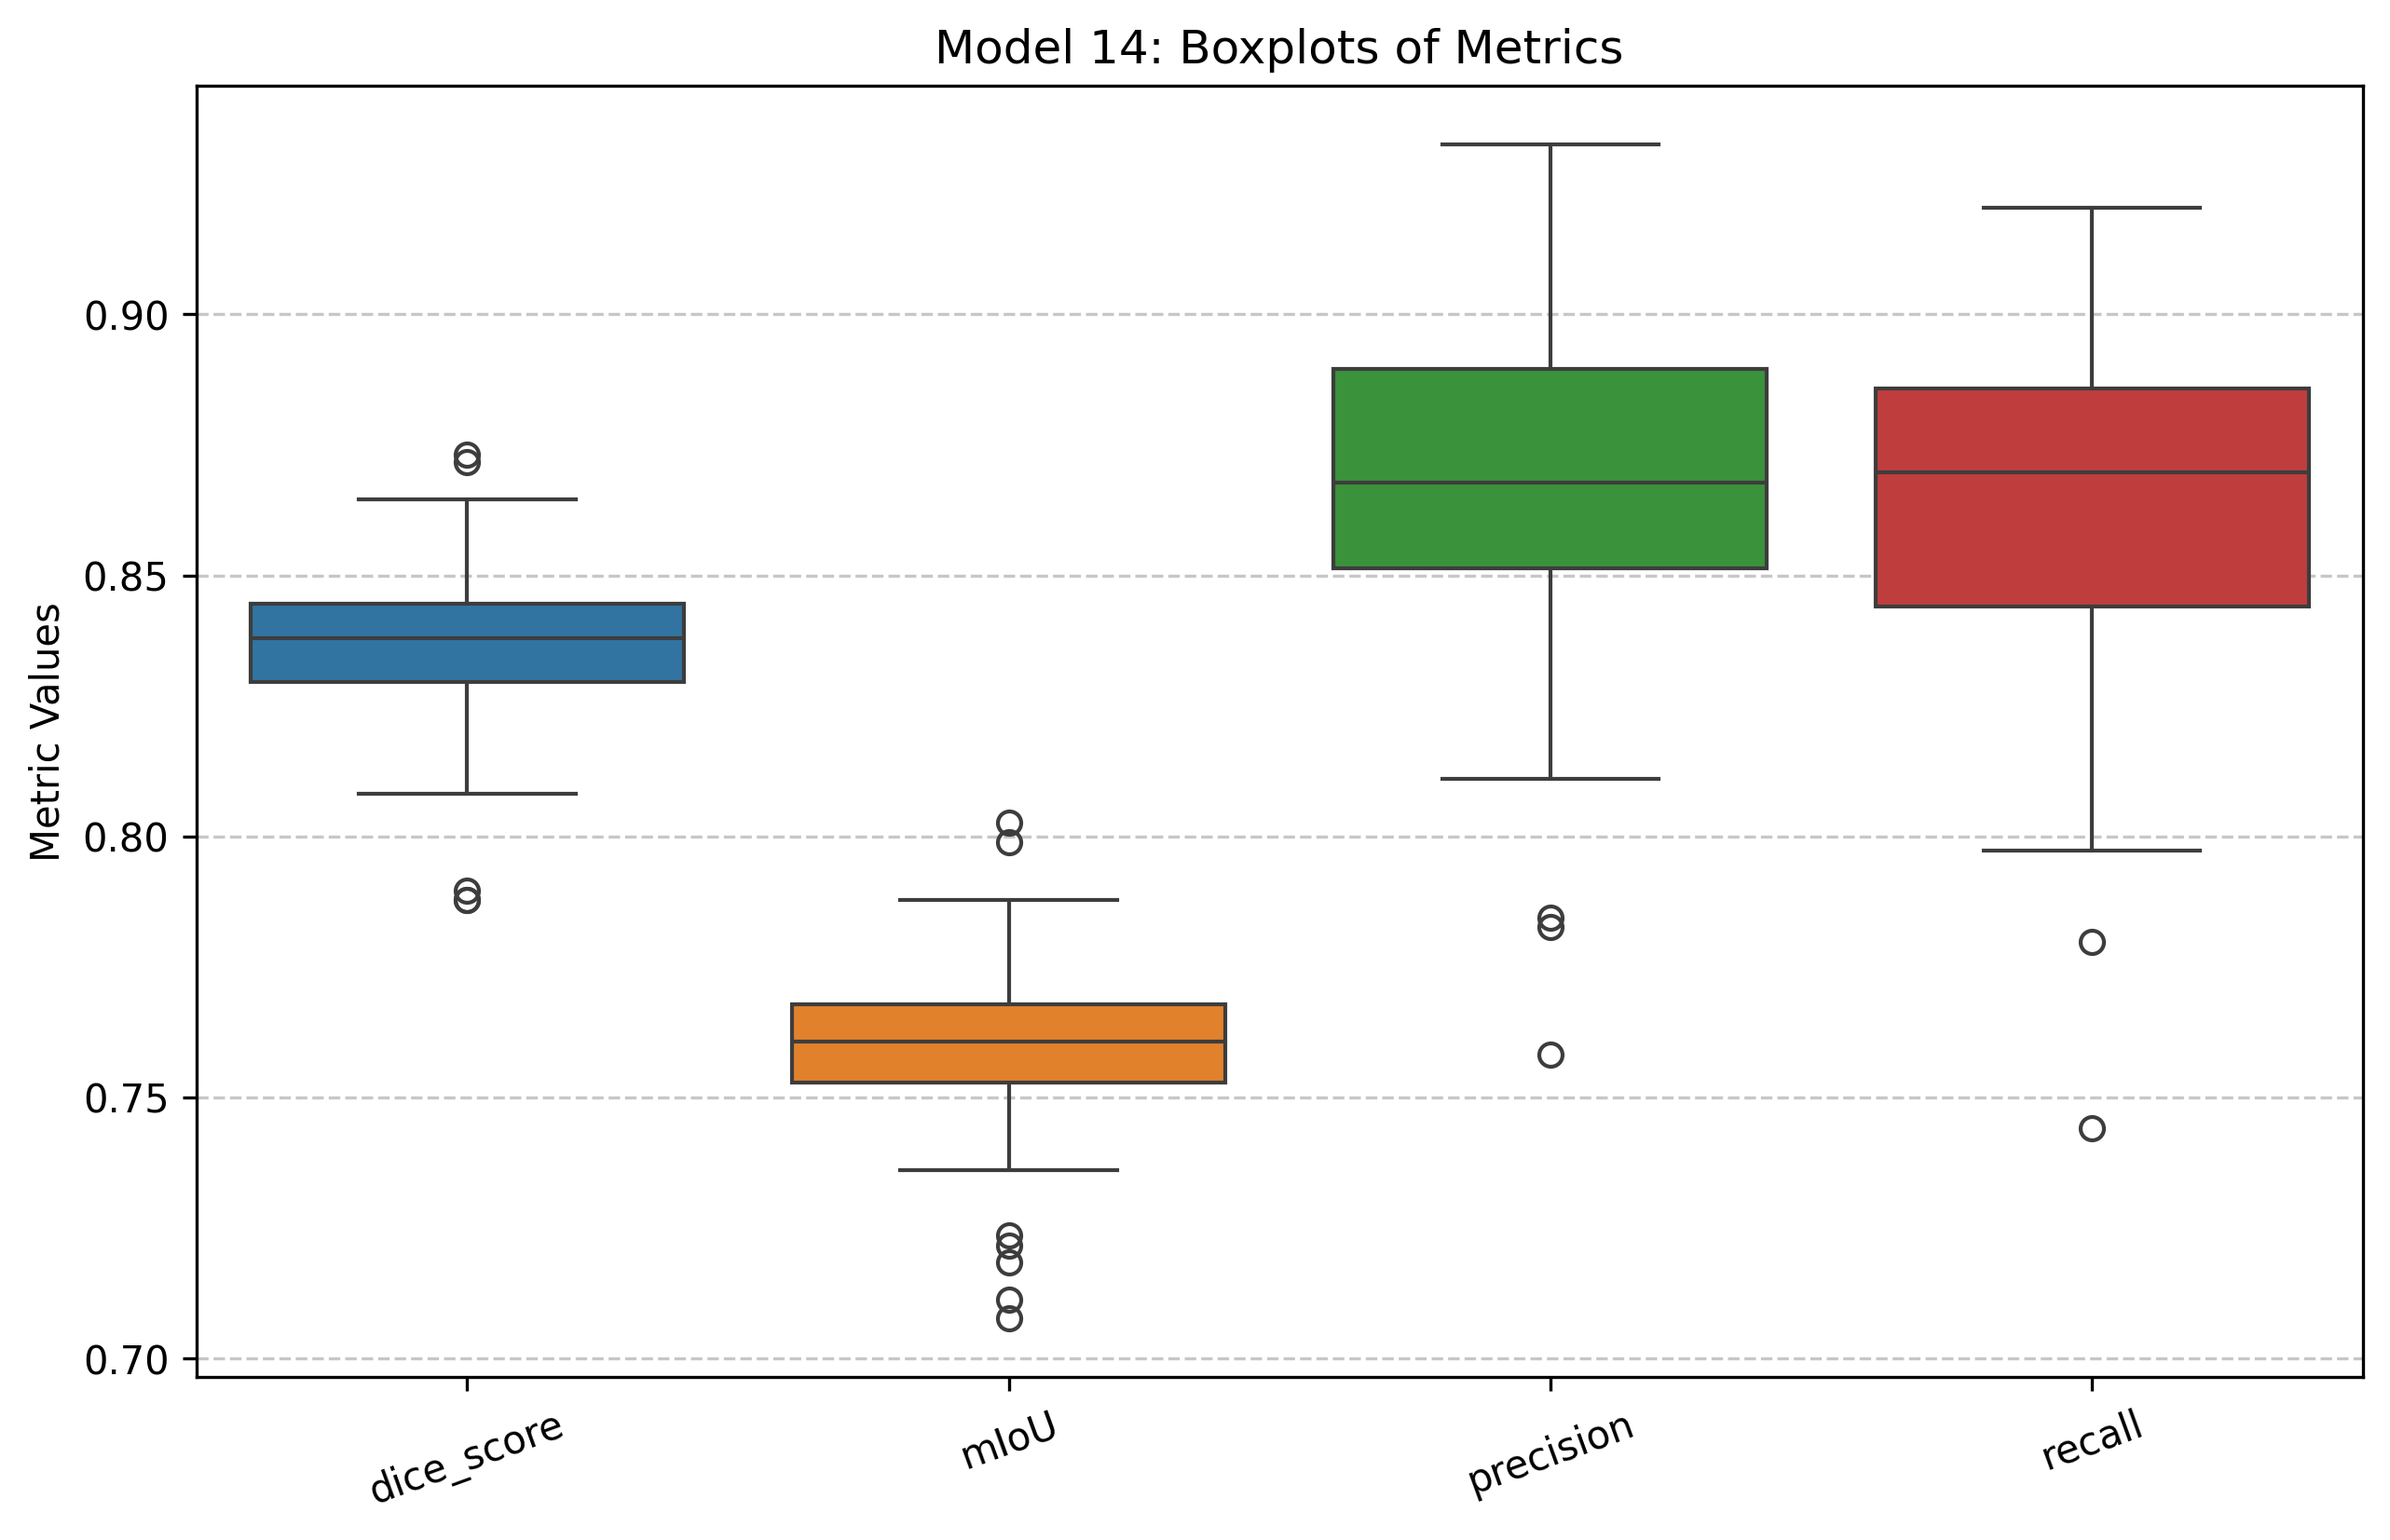
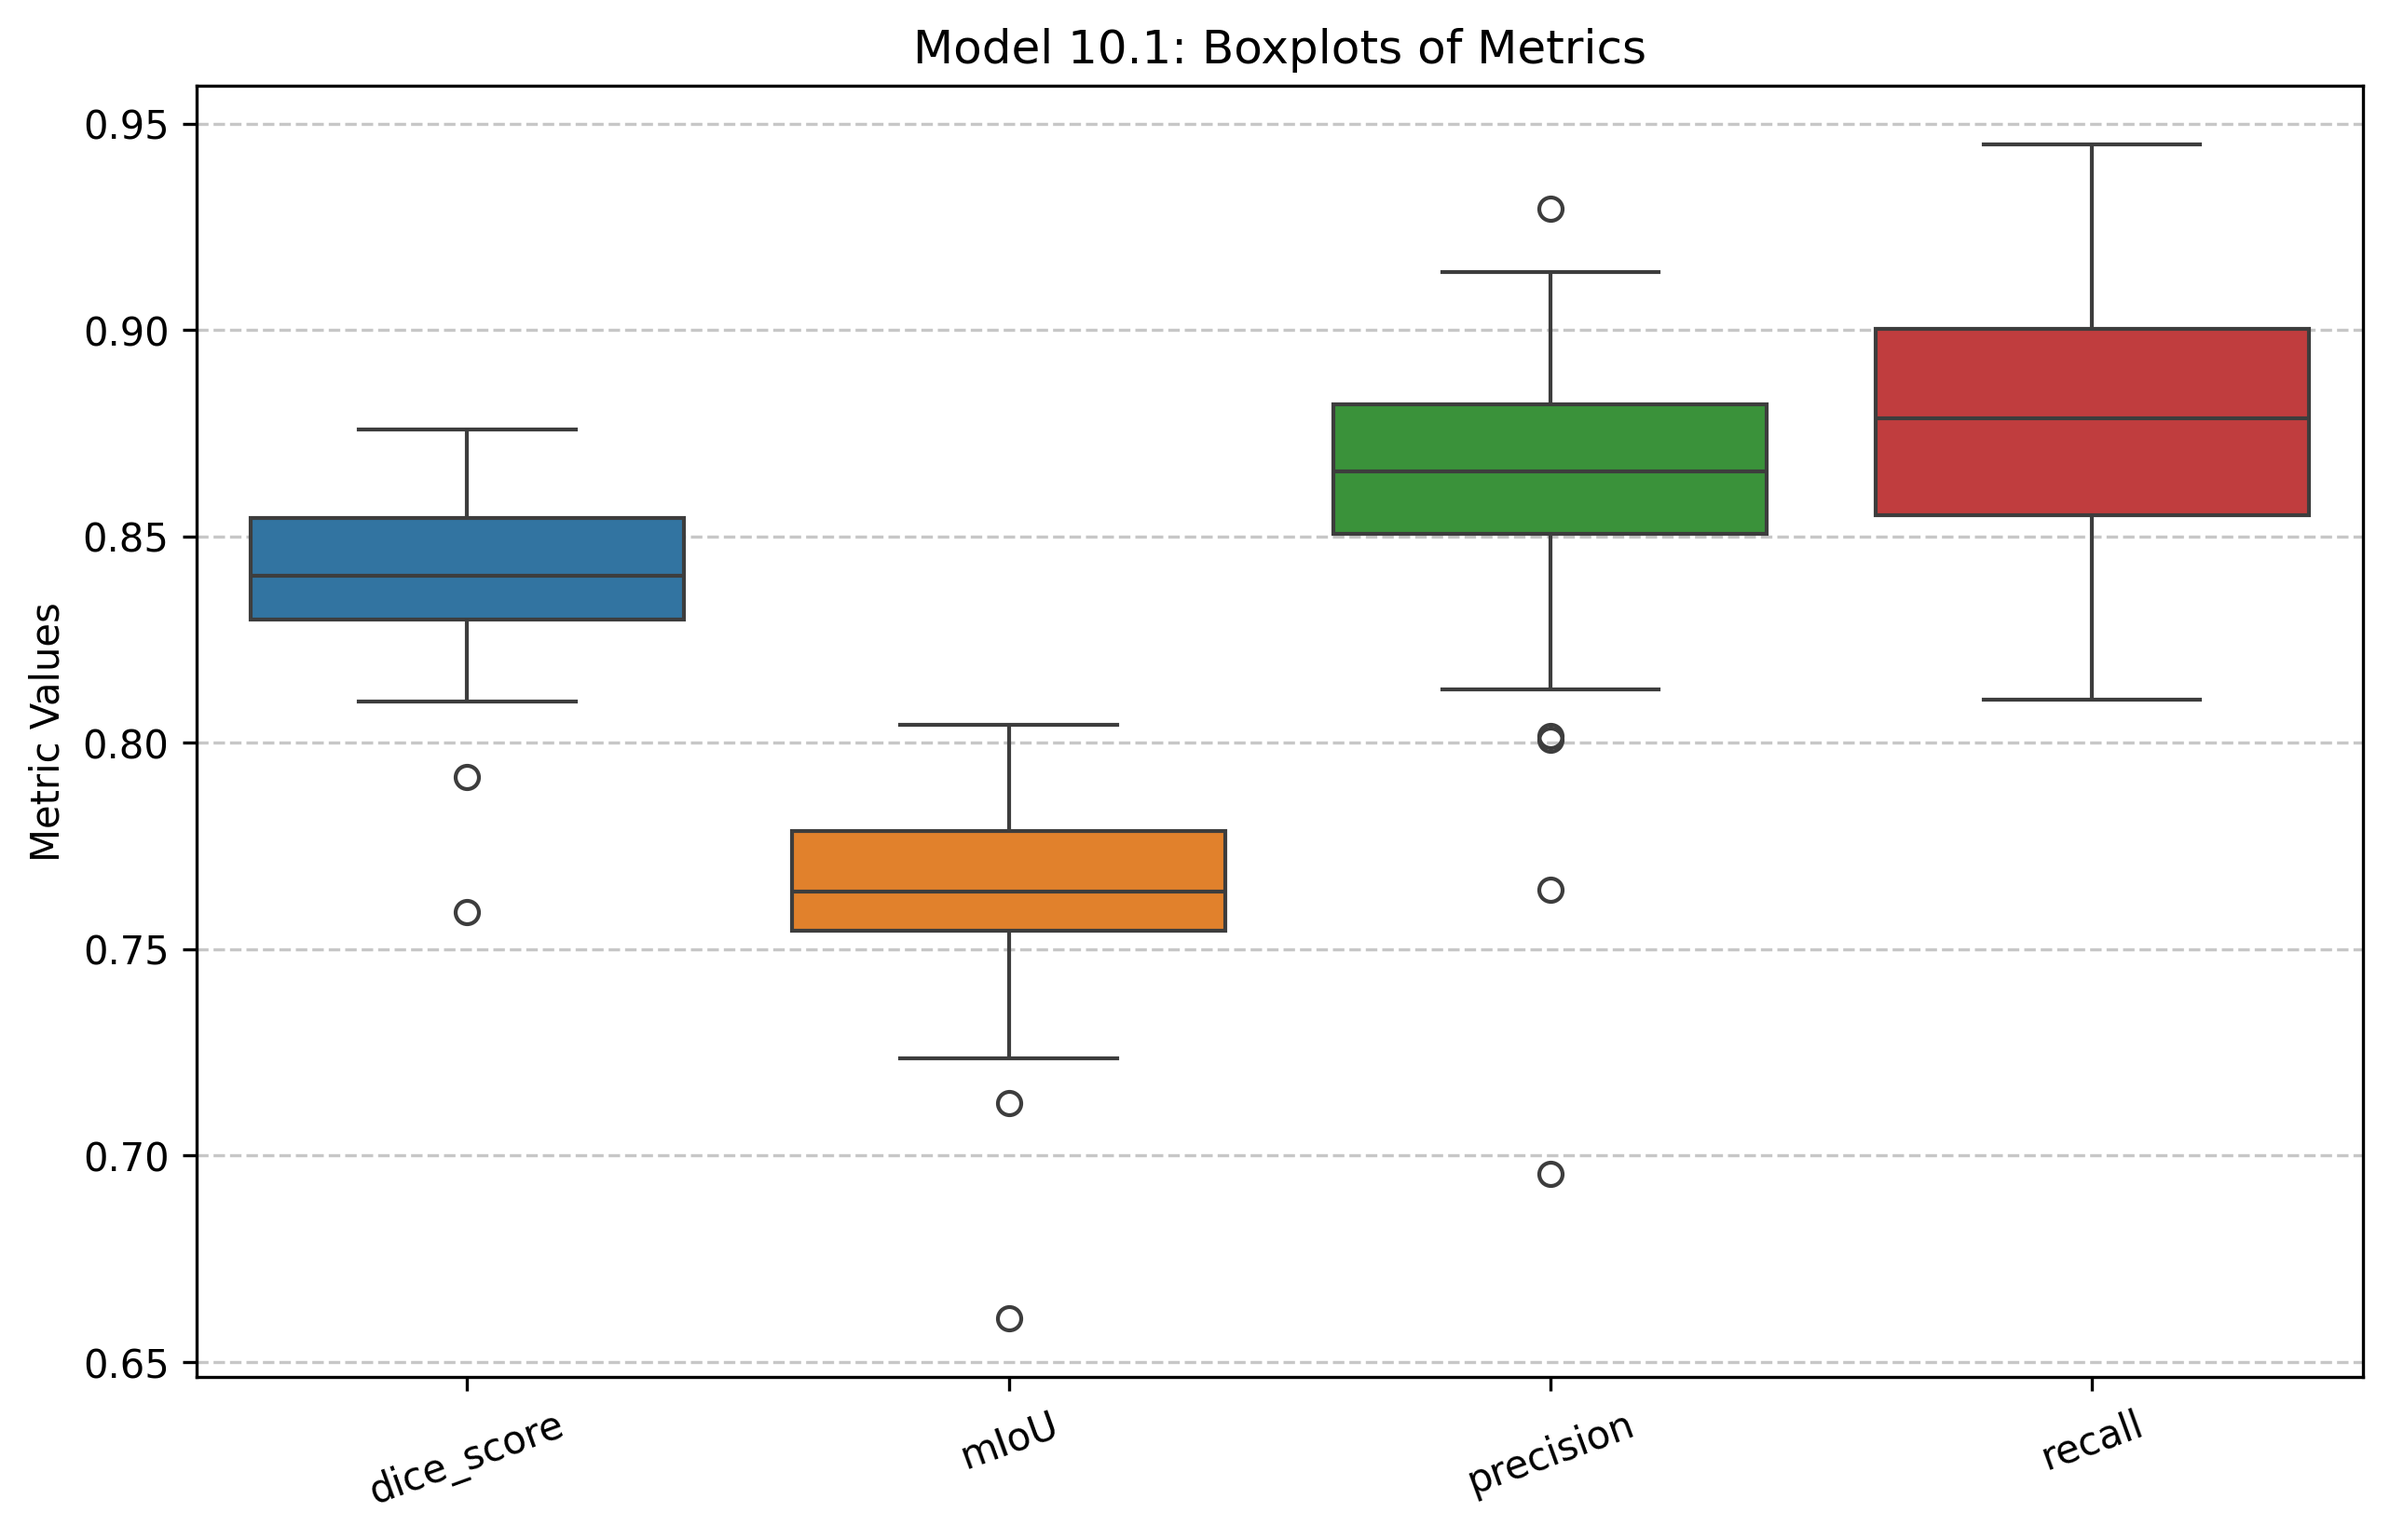
F10.1 results

diff --git a/analyse_results.py b/analyse_results.py
@@ -4,7 +4,7 @@ import matplotlib.pyplot as plt
 import seaborn as sns
 
 # File path
-file_path = "training_results_F17.txt"
+file_path = "training_results_F10.1.txt"
 
 # Updated regex pattern to extract the two dictionaries
 dict_pattern = re.compile(r"Run \d+: (\{.*?\}), Credible Intervals: (\{.*?\})")
@@ -66,7 +66,7 @@ def plot_boxplots(metrics, filename="boxplot.png"):
     sns.boxplot(data=[metrics[key] for key in metrics.keys()])
     plt.xticks(ticks=range(len(metrics.keys())), labels=list(metrics.keys()), rotation=20)
     plt.ylabel("Metric Values")
-    plt.title("Model 14: Boxplots of Metrics")
+    plt.title("Model 10.1: Boxplots of Metrics")
     plt.grid(axis="y", linestyle="--", alpha=0.7)
     # Save the figure
     plt.savefig(filename, bbox_inches="tight", dpi=300)
@@ -121,7 +121,7 @@ def plot_credible_intervals(runs, filename="credible_intervals.png"):
 
     plt.xlabel("Run Number")
     plt.ylabel("Metric Value")
-    plt.title("Model 14: Bayesian Credible Intervals Over Training Runs with Mean Values")
+    plt.title("Model 10.1: Bayesian Credible Intervals Over Training Runs with Mean Values")
     plt.legend(loc='upper left', bbox_to_anchor=(1.05, 1), borderaxespad=0.)
     plt.grid(True, linestyle="--", alpha=0.7)
     plt.savefig(filename, bbox_inches="tight", dpi=300)
